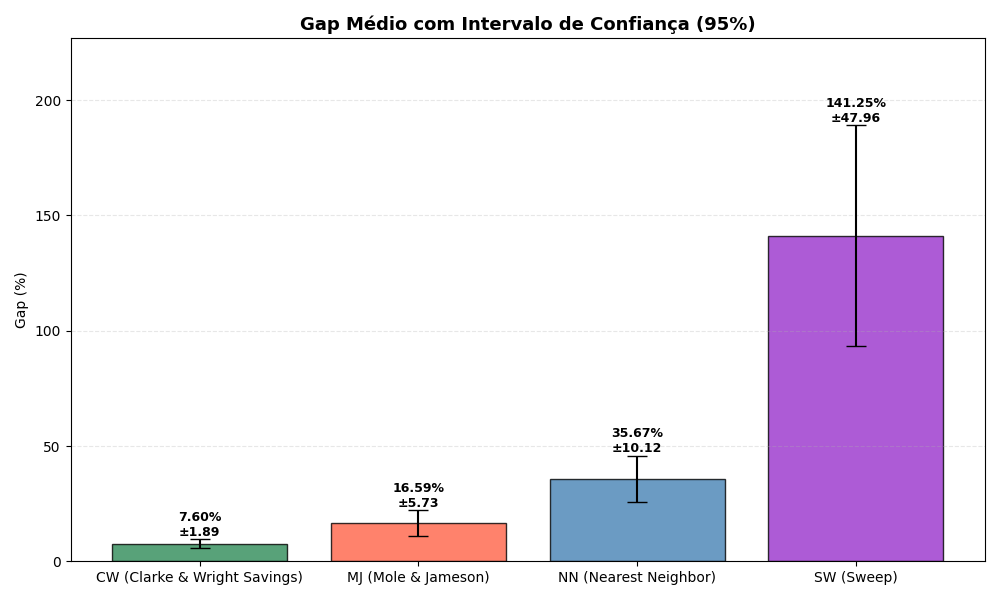
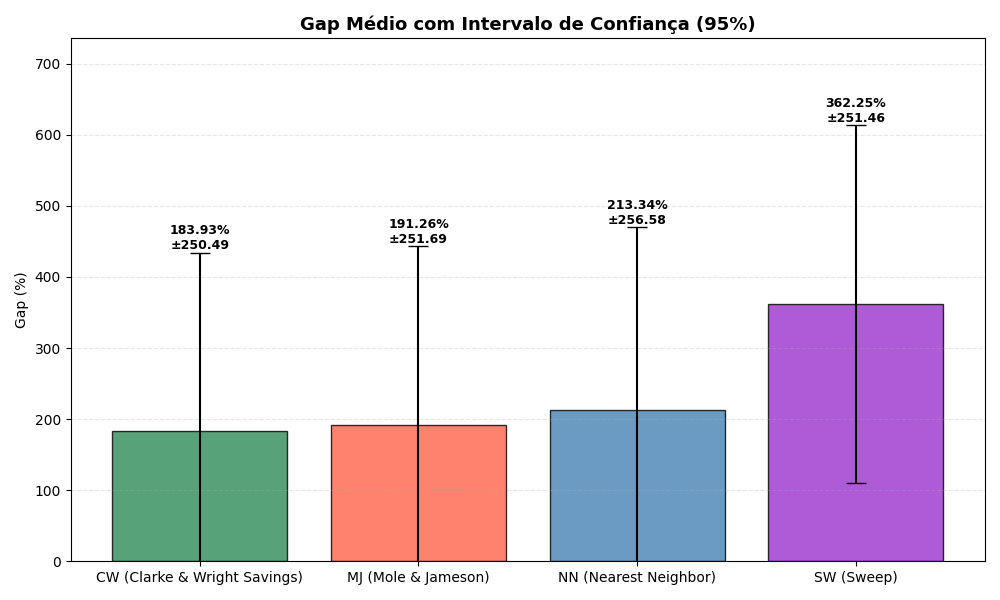
fix: conflitos de merge

diff --git a/saida/graphics.py b/saida/graphics.py
@@ -125,22 +125,32 @@ def gerar_graficos(caminho_dat, pasta_saida):
     df = carregar_resultados(caminho_dat)
     if df.empty: return
 
-    # Colapsa as 30 runs → 1 valor médio por (instância, heurística)
     df_medio = df.groupby(["INSTANCE", "METHOD"]).mean().reset_index()
-    # n=15 por heurística — unidade amostral para boxplot e IC
 
-    # Gráfico 1: Runtime
-    fig, ax = plt.subplots(figsize=(12, 6))
-    tabela_time = df_medio.pivot(index="INSTANCE", columns="METHOD", values="RUNTIME")
-    tabela_time.plot(kind="bar", ax=ax, edgecolor="black")
-    ax.set_title("Tempo Médio de Execução (N=30 runs)")
-    ax.set_ylabel("Segundos")
-    plt.xticks(rotation=45, ha="right")
-    plt.tight_layout()
-    plt.savefig(os.path.join(pasta_saida, "grafico_barras_runtime.png"))
-    plt.close()   # ← obrigatório
+    # ── Gráfico 1: Runtime separado em pequenas e grandes ──────────────────
+    INSTANCIAS_PEQUENAS = {"A-n80-k10", "CMT10", "E-n101-k14", "F-n135-k7",
+                           "F-n72-k4", "Golden_18", "M-n151-k12", "tai150b"}
+    INSTANCIAS_GRANDES  = {"Golden_3", "Li_21", "Loggi-n601-k42", "tai385",
+                           "X-n502-k39", "XL-n1701-k562", "XL-n2541-k121"}
 
-    # Gráfico 2: Boxplot — usa df_medio (n=15 por heurística)
+    for grupo, label in [(INSTANCIAS_PEQUENAS, "pequenas"), (INSTANCIAS_GRANDES, "grandes")]:
+        df_grupo = df_medio[df_medio["INSTANCE"].isin(grupo)]
+        if df_grupo.empty:
+            continue
+
+        tabela = df_grupo.pivot(index="INSTANCE", columns="METHOD", values="RUNTIME")
+
+        fig, ax = plt.subplots(figsize=(12, 6))
+        tabela.plot(kind="bar", ax=ax, edgecolor="black")
+        ax.set_title(f"Tempo Médio de Execução — Instâncias {label.capitalize()}")
+        ax.set_ylabel("Segundos")
+        ax.grid(axis="y", linestyle="--", alpha=0.3)
+        plt.xticks(rotation=45, ha="right")
+        plt.tight_layout()
+        plt.savefig(os.path.join(pasta_saida, f"grafico_barras_runtime_{label}.png"))
+        plt.close()
+
+    # ── Gráfico 2: Boxplot ─────────────────────────────────────────────────
     fig, ax = plt.subplots(figsize=(10, 6))
     df_medio.boxplot(column="GAP", by="METHOD", ax=ax)
     ax.set_title("Dispersão do Gap Médio entre Instâncias")
@@ -148,13 +158,10 @@ def gerar_graficos(caminho_dat, pasta_saida):
     ax.set_ylabel("Gap médio por instância (%)")
     plt.tight_layout()
     plt.savefig(os.path.join(pasta_saida, "grafico_boxplot_gap.png"))
-    plt.close()   # ← obrigatório
+    plt.close()
 
-    # Gráfico 3: IC 95%
+    # ── Gráfico 3: IC 95% ──────────────────────────────────────────────────
     grafico_ic_gap(df_medio, pasta_saida)
 
+    # ── Tabela comparativa ─────────────────────────────────────────────────
     df_medio.to_csv(os.path.join(pasta_saida, "tabela_comparativa_media.csv"), index=False)
-
-    # 4. Tabela Comparativa Final (Média)
-    df_medio.to_csv(os.path.join(pasta_saida, "tabela_comparativa_media.csv"), index=False)
-

diff --git a/Main.py b/Main.py
@@ -25,6 +25,11 @@ Modos de uso:
 """
 import sys
 from core.Instancia_cvrp import InstanciaCvrp
+from Heuristicas.clarke_wright import ClarkeWright
+from Heuristicas.nearest_neighbor import NearestNeighbor
+from Heuristicas.sweep import Sweep
+from Heuristicas.sequential_insertion import MoleJameson
+
 from instancesConfig import HEURISTICAS, INSTANCIAS
 
 from saida.execution import executar_e_salvar
@@ -34,35 +39,18 @@ from saida.terminal import (
     cabecalho_instancia, linha_resultado, rodape_instancia,
     mensagem_sucesso, mensagem_info, mensagem_aviso, mensagem_erro
 )
-# ── Registro de heurísticas disponíveis ──────────────────────────────────────
 
-# HEURISTICAS = {
-#     "CW": ClarkeWright(),
-#     "NN": NearestNeighbor(),
-#     "SW": Sweep(),
-#     "ML": MoleJameson(),
-# }
-
-# Melhores valores conhecidos (BKS) das instâncias do benchmark
-# MELHORES = {
-#     "A-n32-k5":       784.0,
-#     "A-n33-k5":       661.0,
-#     "A-n80-k10":      1763.0,
-#     "F-n72-k4":       237.0,
-#     "E-n101-k14":     1067.0,
-#     "F-n135-k7":      1162.0,
-#     "M-n151-k12":     1015.0,
-#     "Golden_18":      995.13,
-#     "CMT10":          1395.85,
-#     "tai150b":        2727.03,
-#     "Golden_3":       10997.80,
-#     "Loggi-n601-k42": 347046.0,
-# }
-
+from instancesConfig import INSTANCIAS, HEURISTICAS
 
 # ─────────────────────────────────────────────────────────────────────────────
 # Helpers
 # ─────────────────────────────────────────────────────────────────────────────
+
+def get_config_instancia(nome: str):
+    for inst_nome, melhor_conhecido, melhor_k in INSTANCIAS:
+        if inst_nome == nome:
+            return melhor_conhecido, melhor_k
+    return None, None
 
 def linha(char="─", n=60):
     print(f"{CINZA}{char * n}{RESET}")

diff --git a/saida/execution.py b/saida/execution.py
@@ -8,6 +8,13 @@ PASTA_PLOTS = "resultados"
 
 CABECALHO = ["INSTANCE", "METHOD", "OBJECTIVE", "RUNTIME", "GAP"]
 
+def calcular_penalidade(n_veiculos, melhor_k, melhor_conhecido):
+    if melhor_k is None:
+        return 0.0
+    a = melhor_conhecido * 0.05 # 5% por veiculos a mais
+    b = melhor_conhecido * 0.05
+    return a * max(0,n_veiculos - melhor_k) + b * max(0, melhor_k - n_veiculos)
+
 def carregar_resultados(caminho_dat=CAMINHO_ARQUIVO):
     df = pd.read_csv(caminho_dat, sep="\t")
     # Limpeza de strings e conversão numérica
@@ -23,24 +30,33 @@ def salvar_resultado(instancia, metodo, objetivo, runtime, gap):
         writer.writerow([instancia, metodo, f"{objetivo:.2f}", f"{runtime:.6f}", f"{gap:.4f}"])
 
 # execução individual
-def executar_e_salvar(heuristica, inst, melhor_conhecido, melhor_k):
+def executar_e_salvar(heuristica, inst, melhor_conhecido, melhor_k=None):
     inicio = time.perf_counter()
-    rotas, custo, k_veiculos = heuristica.resolver(inst)
+    rotas, custo, n_veiculos = heuristica.resolver(inst)
     fim = time.perf_counter()
     runtime = fim - inicio
 
+    """
+    Resumo: 
+    k_veiculos > melhor_k = penalidade grande, GAP piora
+    k_veiculos == melhor_k = penalidade zero, GAP sai normal
+    k_veiculos < melhor_k = penalidade pequena, GAP nao muda muito
+    """
+    penalidade = calcular_penalidade(n_veiculos, melhor_k, melhor_conhecido)
+
     # Cálculo do GAP (Garante que não seja negativo por float drift)
-    gap = ((custo - melhor_conhecido) / melhor_conhecido) * 100
+    gap = (((custo + penalidade) - melhor_conhecido) / melhor_conhecido) * 100
     gap = max(0.0, gap)
 
     salvar_resultado(inst.nome, heuristica.nome, custo, runtime, gap)
+    
     from saida.graphics import plotar_rotas
     caminho_png = plotar_rotas(inst, rotas, heuristica.nome, PASTA_PLOTS)
 
     return {
         "heuristica": heuristica.nome,
         "custo": custo,
-        "veiculos": k_veiculos,
+        "veiculos": n_veiculos,
         "runtime": runtime,
         "gap": gap,
         "png": caminho_png,

diff --git a/instancesConfig.py b/instancesConfig.py
@@ -7,7 +7,7 @@ from Heuristicas.sequential_insertion import MoleJameson
 ARQUIVO_DAT = "resultados/resultados.dat"
 
 # Set de instancias e seus melhores valores para funcao obj (KBS) e numero de veiculos(k)
-# INSTANCIAS{ (nome, melhor_val, melhor_k) }
+# INSTANCIAS{ (nome, melhor_conhecido, melhor_k) }
 INSTANCIAS = {
     ("A-n80-k10",       1763.00,    10),
     ("F-n72-k4",        237.00,     4),